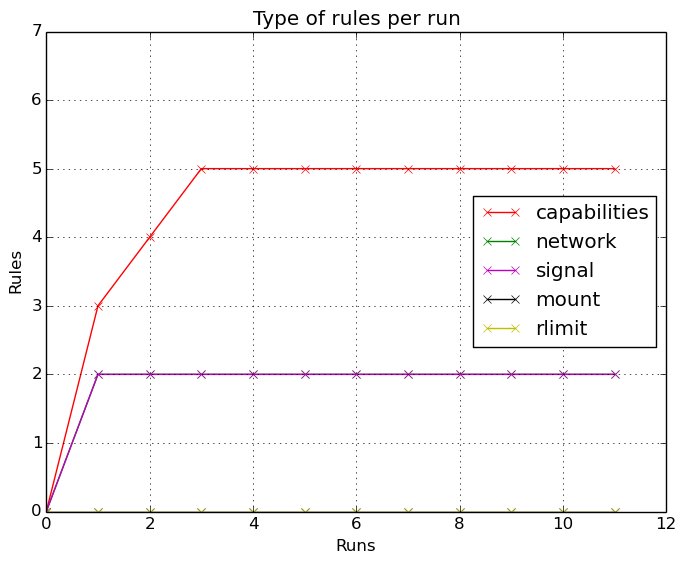
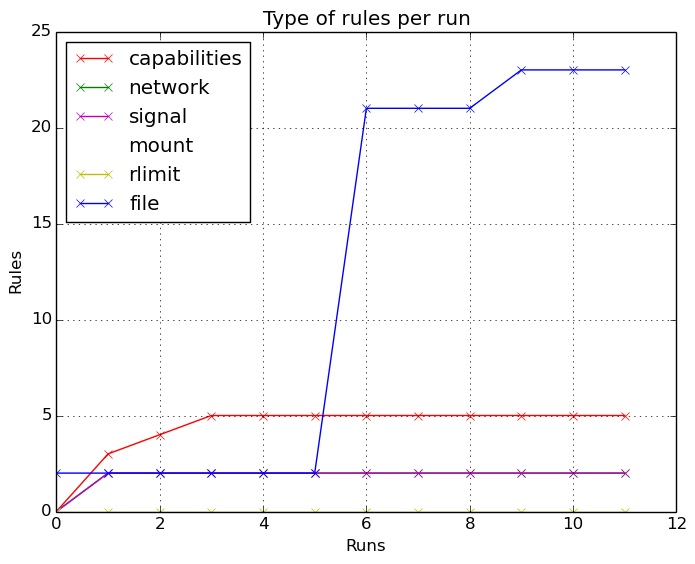
Small changes at new plot

diff --git a/Parser/metrics/plot_type_rules.py b/Parser/metrics/plot_type_rules.py
@@ -81,8 +81,8 @@ mount = sorted(mount)
 max_rules.append(max(mount))
 rlimit = sorted(rlimit)
 max_rules.append(max(rlimit))
-#file_rules = sorted(file_rules)
-#max_rules.append(max(file_rules))
+file_rules = sorted(file_rules)
+max_rules.append(max(file_rules))
 max_value = max(max_rules)
 
 x_Axis=[]
@@ -94,9 +94,9 @@ ax = fig.add_subplot(111)
 ax.plot(x_Axis, capabilities, label="capabilities", color="r", marker='x')
 ax.plot(x_Axis, network, label="network", color="g", marker='x')
 ax.plot(x_Axis, signal, label="signal", color="m", marker='x')
-ax.plot(x_Axis, mount, label="mount", color="k", marker='x')
+ax.plot(x_Axis, mount, label="mount", color="w", marker='x')
 ax.plot(x_Axis, rlimit, label="rlimit", color="y", marker='x')
-#ax.plot(x_Axis, file_rules, label="file", color="b", marker='x')
+ax.plot(x_Axis, file_rules, label="file", color="b", marker='x')
 
 
 ax.legend(loc=0)
